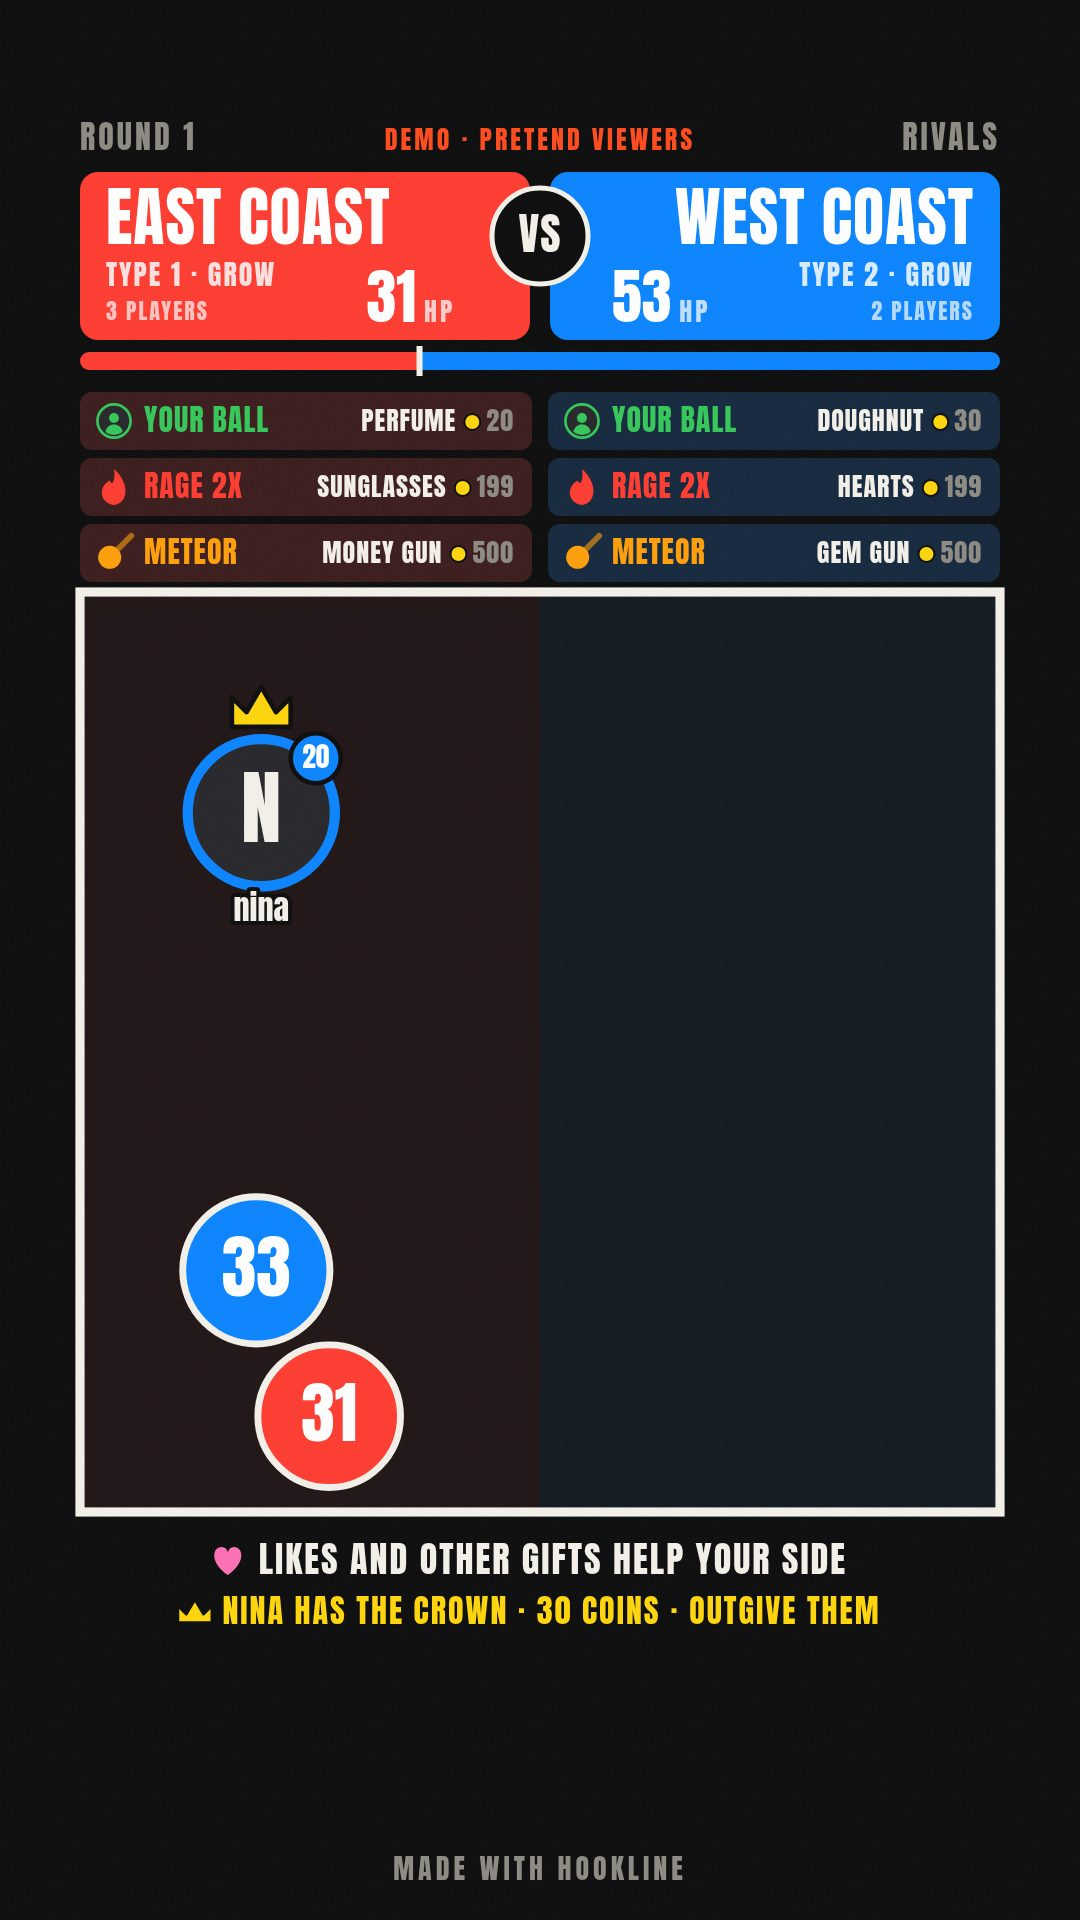
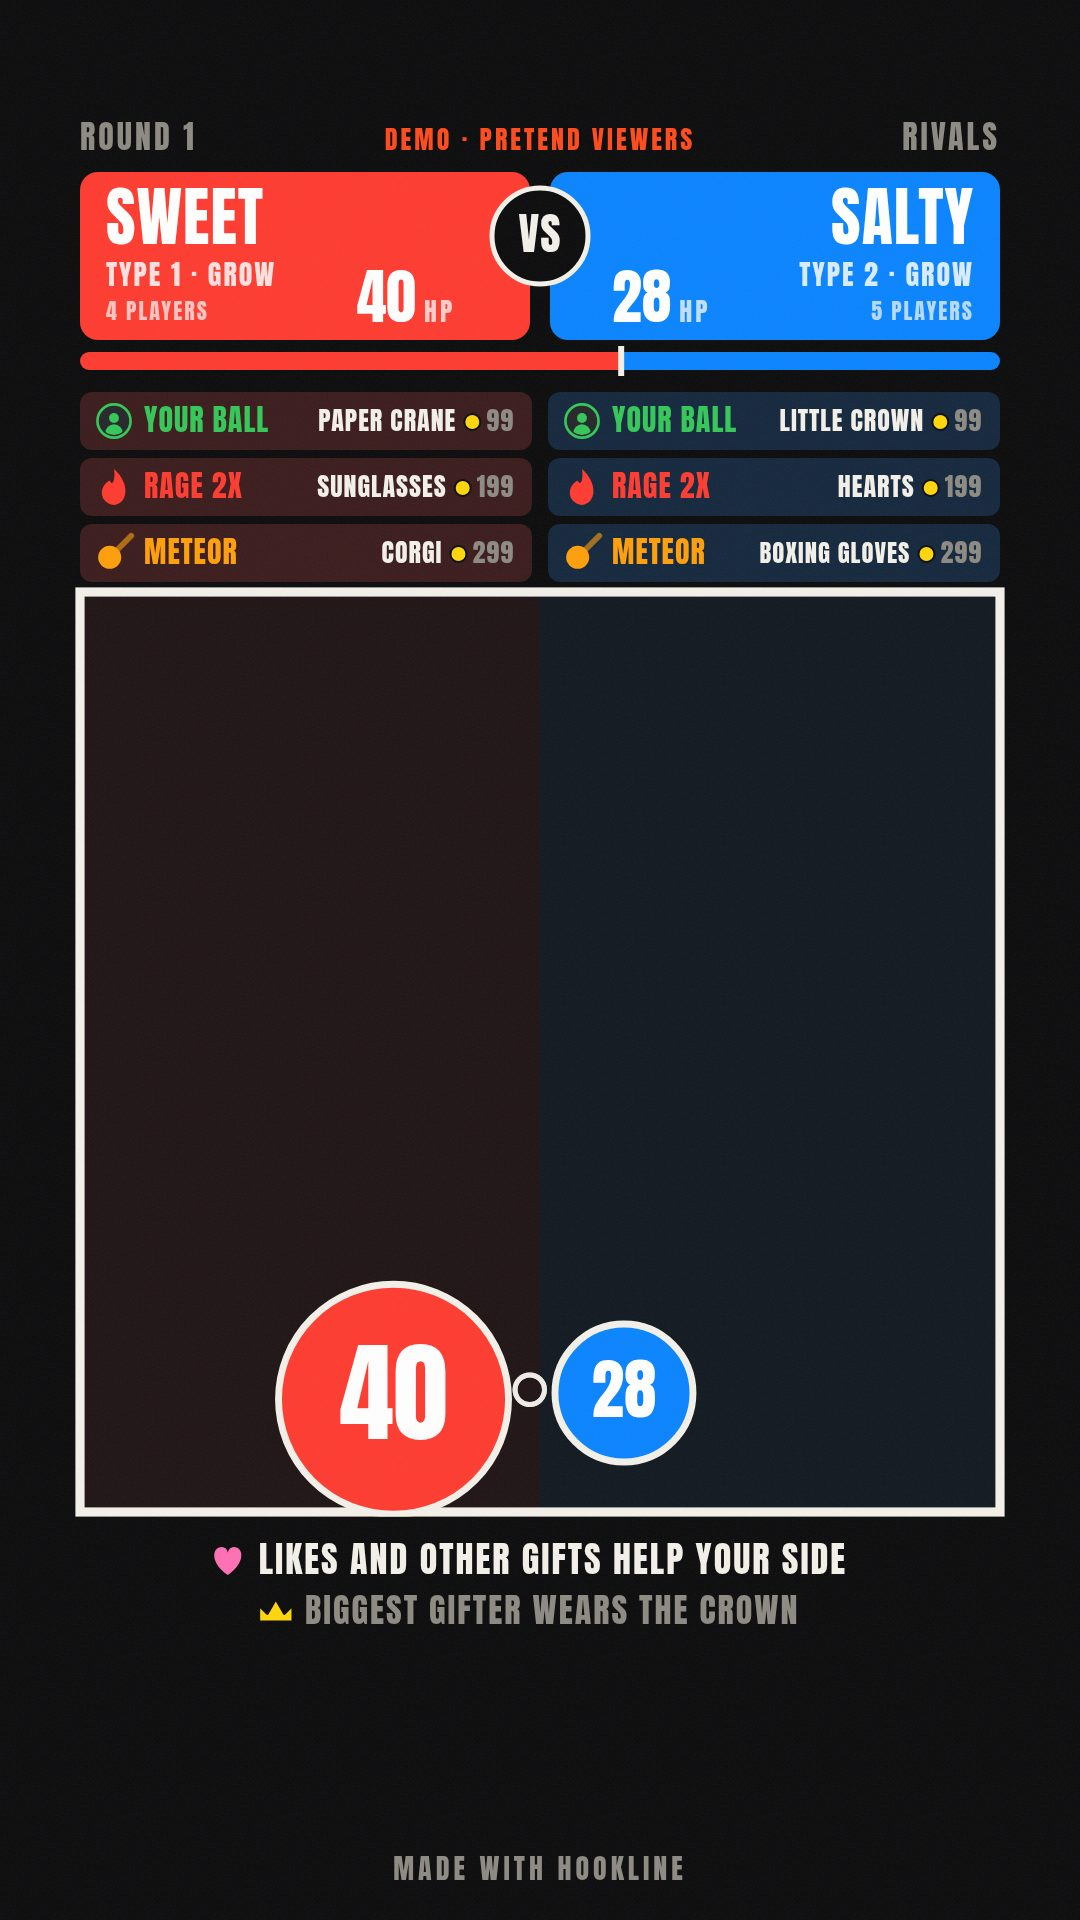
Rivals: same-price gift pairs anyone can send
Each side's three gifts are now pairs that cost exactly the same in
every price list, from TikTok's regular gifts with no gifter level:
red's Paper Crane, Sunglasses and Corgi against blue's Little Crown,
Hearts and Boxing Gloves, at 99, 199 and 299 coins. The Money Gun and
Gem Gun are out because lists disagree on which needs gifter level 15,
and Confetti because it may be a level 10 reward. Gifts that turn up
spelled two ways (Boxing Glove, Hand Heart) match either way, and any
other gift still helps the giver's side by its price.

The big-gift banner reads plural side names as plural: CELTICS HIT
TWICE AS HARD, ON EAGLES' BIGGEST BALL.

diff --git a/tests/live.test.ts b/tests/live.test.ts
@@ -341,12 +341,14 @@ describe("Rivals", () => {
   };
 
   it("knows each side's gifts by name, however TikTok spells them", () => {
-    expect(routeGift(DEFAULT_SIDE_GIFTS, "Perfume")).toMatchObject({ side: 0, tier: { effect: "ball", price: 20 } });
-    expect(routeGift(DEFAULT_SIDE_GIFTS, "money gun")).toMatchObject({ side: 0, tier: { effect: "meteor" } });
-    expect(routeGift(DEFAULT_SIDE_GIFTS, "Gem-Gun")).toMatchObject({ side: 1, tier: { effect: "meteor", gift: "Gem Gun" } });
-    expect(routeGift(DEFAULT_SIDE_GIFTS, "Donut")).toMatchObject({ side: 1, tier: { effect: "ball" } });
+    expect(routeGift(DEFAULT_SIDE_GIFTS, "Paper Crane")).toMatchObject({ side: 0, tier: { effect: "ball", price: 99 } });
+    expect(routeGift(DEFAULT_SIDE_GIFTS, "corgi")).toMatchObject({ side: 0, tier: { effect: "meteor" } });
+    expect(routeGift(DEFAULT_SIDE_GIFTS, "Boxing-Gloves")).toMatchObject({ side: 1, tier: { effect: "meteor", gift: "Boxing Gloves" } });
+    expect(routeGift(DEFAULT_SIDE_GIFTS, "Boxing Glove")).toMatchObject({ side: 1, tier: { effect: "meteor" } });
+    expect(routeGift(DEFAULT_SIDE_GIFTS, "LITTLE CROWN")).toMatchObject({ side: 1, tier: { effect: "ball" } });
     expect(routeGift(DEFAULT_SIDE_GIFTS, "Rose")).toBeNull();
-    expect(giftKey(" Hand-Hearts! ")).toBe("handhearts");
+    expect(giftKey(" Hand-Heart! ")).toBe("handhearts");
+    expect(giftKey("Donut")).toBe("doughnut");
   });
 
   it("keeps religion, race, where people are from and who they love out of it", () => {
@@ -365,12 +367,13 @@ describe("Rivals", () => {
 
   it("checks each side's gifts make a fair game", () => {
     expect(validSideGifts(DEFAULT_SIDE_GIFTS)).toBe(true);
-    const red = DEFAULT_SIDE_GIFTS.red;
-    expect(validSideGifts({ red, blue: [{ name: "Perfume", coins: 20 }, ...DEFAULT_SIDE_GIFTS.blue.slice(1)] })).toBe(false);
-    expect(validSideGifts({ red: [red[1], red[0], red[2]], blue: DEFAULT_SIDE_GIFTS.blue })).toBe(false);
-    expect(validSideGifts({ red: red.slice(0, 2), blue: DEFAULT_SIDE_GIFTS.blue })).toBe(false);
-    // the one power that costs one side more, with Hookline's gifts
-    expect(priceGaps(DEFAULT_SIDE_GIFTS)).toEqual([{ power: "Your ball", red: 20, blue: 30 }]);
+    const { red, blue } = DEFAULT_SIDE_GIFTS;
+    expect(validSideGifts({ red, blue: [{ name: "Paper Crane", coins: 99 }, ...blue.slice(1)] })).toBe(false);
+    expect(validSideGifts({ red: [red[1], red[0], red[2]], blue })).toBe(false);
+    expect(validSideGifts({ red: red.slice(0, 2), blue })).toBe(false);
+    // Hookline's cost the same, pair by pair; a streamer's own may not
+    expect(priceGaps(DEFAULT_SIDE_GIFTS)).toEqual([]);
+    expect(priceGaps({ red, blue: [{ name: "Doughnut", coins: 30 }, ...blue.slice(1)] })).toEqual([{ power: "Your ball", red: 99, blue: 30 }]);
   });
 
   it("starts with politics off, drops rivalries it won't run, and keeps a rotation going", () => {
@@ -402,8 +405,8 @@ describe("Rivals", () => {
     const { s, w } = rivals(31);
     toPlay(s);
     s.handle({ kind: "chat", viewer: viewer("a"), text: "2" });
-    // Perfume is red's: it moves them to red and drops their ball in there
-    s.handle({ kind: "gift", viewer: viewer("a"), gift: "Perfume", coins: 20, count: 1 });
+    // a Paper Crane is red's: it moves them to red and drops their ball in there
+    s.handle({ kind: "gift", viewer: viewer("a"), gift: "Paper Crane", coins: 99, count: 1 });
     expect(s.sideOf("a")).toBe(0);
     expect(w().balls.find((b) => b.tag?.id === "a")).toMatchObject({ team: 0 });
     // Hearts is blue's rage, at the same price as red's Sunglasses
@@ -412,8 +415,8 @@ describe("Rivals", () => {
     expect(w().rage[1]).toBeGreaterThan(w().clock);
     expect(w().rage[0]).toBeLessThanOrEqual(w().clock);
     expect(s.blasts.at(-1)).toMatchObject({ side: 1, tier: { effect: "rage", gift: "Hearts" } });
-    // and the Gem Gun is blue's meteor, onto red
-    s.handle({ kind: "gift", viewer: viewer("b"), gift: "Gem Gun", coins: 500, count: 1 });
+    // and the Boxing Gloves are blue's meteor, onto red
+    s.handle({ kind: "gift", viewer: viewer("b"), gift: "Boxing Gloves", coins: 299, count: 1 });
     expect(w().meteors.at(-1)).toMatchObject({ team: 1 });
     expect(["0:ball", "1:rage", "1:meteor"].every((k) => s.lit.has(k))).toBe(true);
   });
@@ -426,6 +429,9 @@ describe("Rivals", () => {
     s.handle({ kind: "gift", viewer: viewer("a"), gift: "Rose", coins: 1, count: 5 });
     expect(w().hp(0)).toBe(hp + 5);
     expect(s.sideOf("a")).toBe(0);
+    // a Perfume costs less than any power: it heals
+    s.handle({ kind: "gift", viewer: viewer("a"), gift: "Perfume", coins: 20, count: 1 });
+    expect(w().hp(0)).toBe(hp + 25);
     // a Galaxy is on neither side, and costs more than a meteor: a meteor for red
     s.handle({ kind: "gift", viewer: viewer("a"), gift: "Galaxy", coins: 1000, count: 1 });
     expect(w().meteors.at(-1)).toMatchObject({ team: 0 });

diff --git a/lib/live/rivals.ts b/lib/live/rivals.ts
@@ -74,28 +74,32 @@ export const RIVAL_HEAL: Tier = { effect: "heal", min: 1, name: "+1 HP", gift: "
 export type SideGifts = { red: MenuGift[]; blue: MenuGift[] };
 
 /**
- * Each side's three gifts. Red's are the classics; blue's cost the same
- * where TikTok has a gift at that exact price everywhere (199 and 500),
- * and the nearest everyday one where it doesn't (a Doughnut, 30, against
- * a Perfume, 20). Streamers can swap in their own.
+ * Each side's three gifts: three pairs that cost exactly the same, from
+ * TikTok's regular gifts that anyone can send, so neither side pays more
+ * for the same power. Gifts that some price lists put behind a gifter
+ * level (the Money Gun, the Gem Gun, Confetti) are left out. Streamers can
+ * swap in their own.
  */
 export const DEFAULT_SIDE_GIFTS: SideGifts = {
   red: [
-    { name: "Perfume", coins: 20 },
+    { name: "Paper Crane", coins: 99 },
     { name: "Sunglasses", coins: 199 },
-    { name: "Money Gun", coins: 500 },
+    { name: "Corgi", coins: 299 },
   ],
   blue: [
-    { name: "Doughnut", coins: 30 },
+    { name: "Little Crown", coins: 99 },
     { name: "Hearts", coins: 199 },
-    { name: "Gem Gun", coins: 500 },
+    { name: "Boxing Gloves", coins: 299 },
   ],
 };
+
+/** the same gift, spelled the other ways it turns up */
+const ALIASES: Record<string, string> = { donut: "doughnut", donuts: "doughnut", doughnuts: "doughnut", boxingglove: "boxinggloves", handheart: "handhearts", papercranes: "papercrane" };
 
 /** A gift's name as TikTok might send it, made comparable: case, spaces and punctuation don't count, and a donut is a doughnut. */
 export function giftKey(name: string): string {
   const k = name.toLowerCase().replace(/[^a-z0-9]/g, "");
-  return ({ donut: "doughnut", donuts: "doughnut", doughnuts: "doughnut" } as Record<string, string>)[k] ?? k;
+  return ALIASES[k] ?? k;
 }
 
 /** One side's three powers, each with that side's gift. */

diff --git a/components/app/live-settings.tsx b/components/app/live-settings.tsx
@@ -395,10 +395,10 @@ function SideGiftsField({ own, setOwn, gifts, setGifts, allowed }: {
         {!ok && <p role="alert" className="text-signal">Each side needs three different gifts, each costing more than the one before, and no gift on both sides. Until then, the game uses Hookline&rsquo;s.</p>}
         {gaps.map((x) => (
           <p key={x.power} className="text-muted">
-            {x.power}: red pays {x.red.toLocaleString("en-US")} coins, blue pays {x.blue.toLocaleString("en-US")}.{" "}
-            {edit ? "Gifts at the same price keep it fair." : "TikTok has no second gift at 20 coins that every country gets, so blue's is a Doughnut at 30."}
+            {x.power}: red pays {x.red.toLocaleString("en-US")} coins, blue pays {x.blue.toLocaleString("en-US")}. Gifts at the same price keep it fair.
           </p>
         ))}
+        {!edit && <p className="text-muted">Each pair costs the same, and anyone can send them: none needs a gifter level.</p>}
         {!allowed.customMenus && <p className="text-muted">On {allowed.planName}, each side uses these gifts. Creator lets you pick your own.</p>}
       </div>
     </fieldset>

diff --git a/components/live/draw/battle.ts b/components/live/draw/battle.ts
@@ -275,8 +275,10 @@ export const battleDraw: GameDraw = {
   blastLine(show, b: Blast) {
     const us = b.side === null ? "" : show.teams[b.side].name.toUpperCase();
     const them = b.side === null ? "" : show.teams[1 - b.side].name.toUpperCase();
-    if (b.tier.effect === "rage") return `${us} HITS TWICE AS HARD`;
+    // a side named for many (CELTICS, DOGS) reads as plural: CELTICS HIT, CELTICS' BALL
+    const many = (name: string) => /[^S]S$/.test(name);
+    if (b.tier.effect === "rage") return `${us} ${many(us) ? "HIT" : "HITS"} TWICE AS HARD`;
     if (b.tier.effect === "shield") return `${us} CAN'T BE HURT`;
-    return `ON ${them}'S BIGGEST BALL`;
+    return `ON ${many(them) ? `${them}'` : `${them}'S`} BIGGEST BALL`;
   },
 };

diff --git a/DECISIONS.md b/DECISIONS.md
@@ -21,9 +21,9 @@ Defaults picked while building, so nobody has to guess why something is the way 
 ## Rivals
 
 - **The game** (`lib/live/games/rivals.ts`, with its rules in `lib/live/rivals.ts`): the ball battle with named sides, red always on the left and blue on the right, and a different rivalry every round. The vote offers three that didn't just play; without a vote, the next one is random. Both sides field the same champion, a different one each round, so the gifts decide it. Everyone picks a side again each round, since last round's sides were different ones.
-- **Each side's gifts**: the same three powers for both (a ball with the gifter's face, Rage 2X, a meteor), each set off by that side's own gift, so the gift picks the side, even for someone who typed the other number. Red: Perfume (20 coins), Sunglasses (199), Money Gun (500). Blue: Doughnut (30), Hearts (199), Gem Gun (500). Blue's ball costs 10 coins more because TikTok has no second 20-coin gift that every country gets; the settings say so, and on Creator any of the six can be swapped. They must be six different gifts, each side's climbing in price, or Hookline's stand.
+- **Each side's gifts**: the same three powers for both (a ball with the gifter's face, Rage 2X, a meteor), each set off by that side's own gift, so the gift picks the side, even for someone who typed the other number. Red: Paper Crane (99 coins), Sunglasses (199), Corgi (299). Blue: Little Crown (99), Hearts (199), Boxing Gloves (299). Each pair costs exactly the same, and all six are regular gifts that every price list puts at those prices with no gifter level needed. The Money Gun and Gem Gun (500) were left out because price lists disagree on which of them needs gifter level 15, and Hand Hearts and Confetti (100) because Confetti may be a level 10 reward. On Creator any of the six can be swapped; they must be six different gifts, each side's climbing in price, or Hookline's stand.
 - **Any other gift** helps the side the giver is on (or the side that's behind, for someone who hasn't picked), by its price: under the cheapest power it heals 1 HP a coin, and from there it sets off the best power it reaches, like the battle's menu. So a Galaxy is a meteor, not 1,000 HP that would make a side unbeatable.
-- **Gift names are matched loosely**: case, spaces and punctuation don't count, and Donut is Doughnut.
+- **Gift names are matched loosely**: case, spaces and punctuation don't count, and a few gifts that turn up spelled two ways (Boxing Glove, Hand Heart, Donut) match either way.
 - **Typing** 1 or 2, a side's name, or red or blue picks a side for free.
 - **No score between rounds**, since the sides change: the top right says RIVALS where the battle shows its score.
 - **Rivalries are choices, never who people are.** Hookline's come in groups: sports, games and tech, food and fun, places, and politics (Republicans vs Democrats). Religion, race, where people are from and who they love are off limits: none of the presets touch them, and a streamer's own rivalry with one of those words in it is refused when saved, and dropped if it's in saved settings anyway. TikTok's rules on hate protect exactly those things, and a LIVE that sets them against each other for gifts turns its chat on people and gets cut.

diff --git a/NEXT.md b/NEXT.md
@@ -111,7 +111,7 @@ The bridge only listens, so anyone's LIVE works for the first check.
 3. On `https://<domain>/live`, in the setup: pick Hookline Bridge, type their username and connect. The connection check should list their chats, likes and gifts as they happen.
 4. Open the game from the setup: their gifts and likes should land in the fight.
 5. The full test needs someone who can go LIVE (TikTok asks for 18+ and 1,000 followers in most places): add the game from `/app/live` as a browser source at 1080 × 1920 in TikTok LIVE Studio or OBS, go live, have friends type 1 or 2 and send a Rose, watch the vote between rounds, then end the LIVE and check `/app/live` shows that session's numbers.
-6. Rivals, the same way: pick it in `/app/live` (it needs Pro), then have one friend send a Perfume and another a Doughnut. Each should land on its own side, red and blue, whatever number they typed. If TikTok names a gift differently in your country, change it under "Each side's gifts" (Creator).
+6. Rivals, the same way: pick it in `/app/live` (it needs Pro), then have one friend send a Paper Crane and another a Little Crown (99 coins each). Each should land on its own side, red and blue, whatever number they typed. If TikTok names a gift differently in your country, change it under "Each side's gifts" (Creator).
 
 ## 11. Domain, email and the legal pages
 
